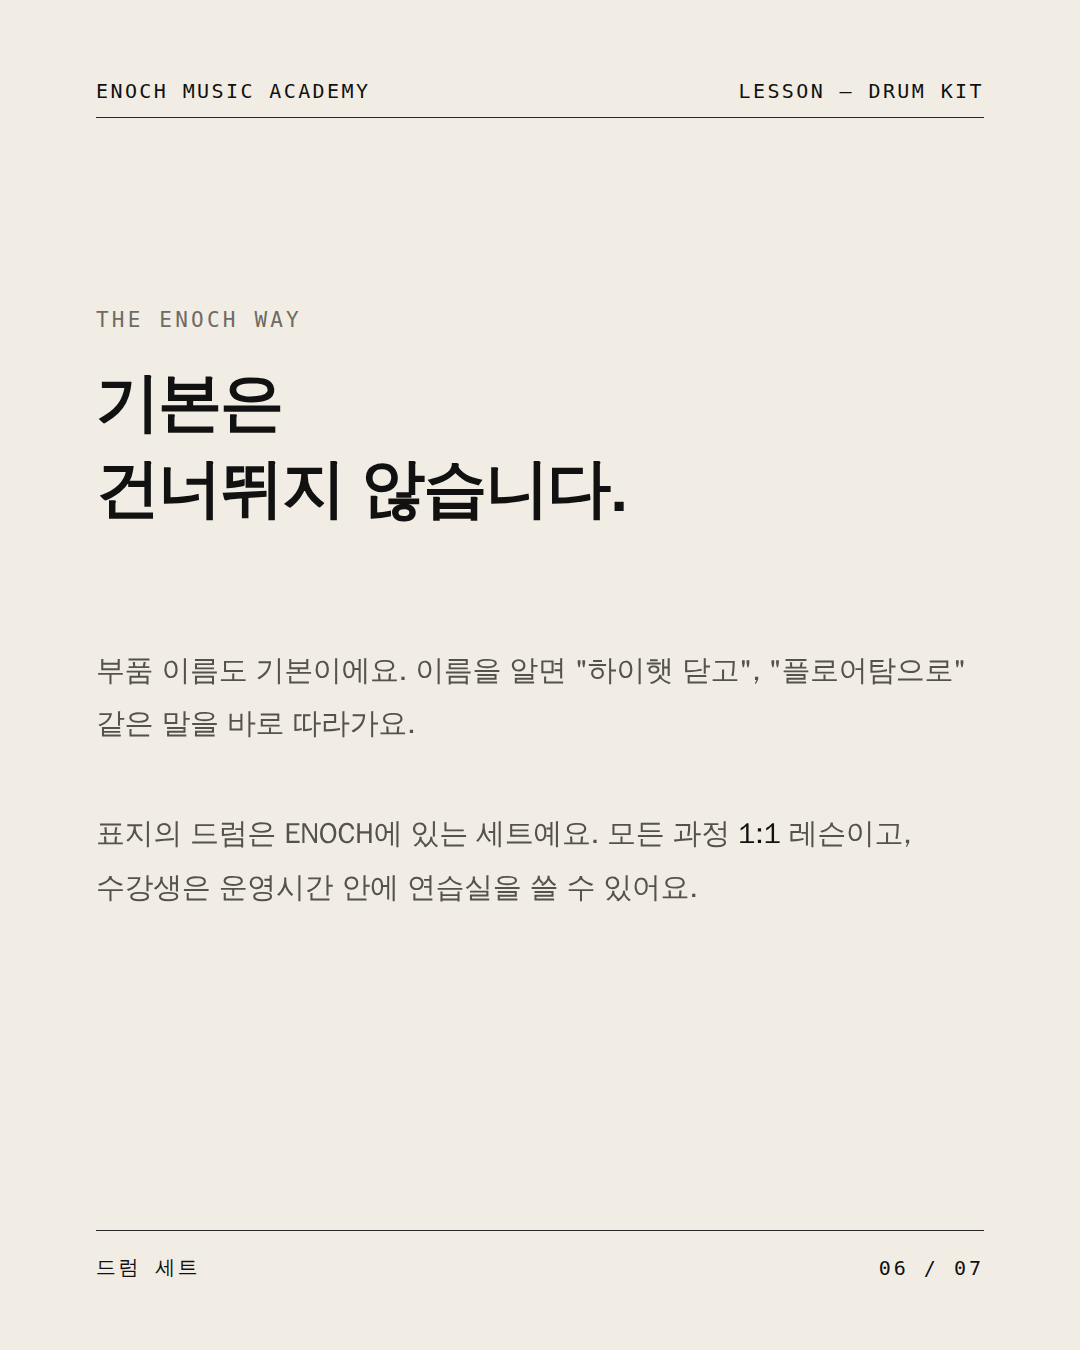
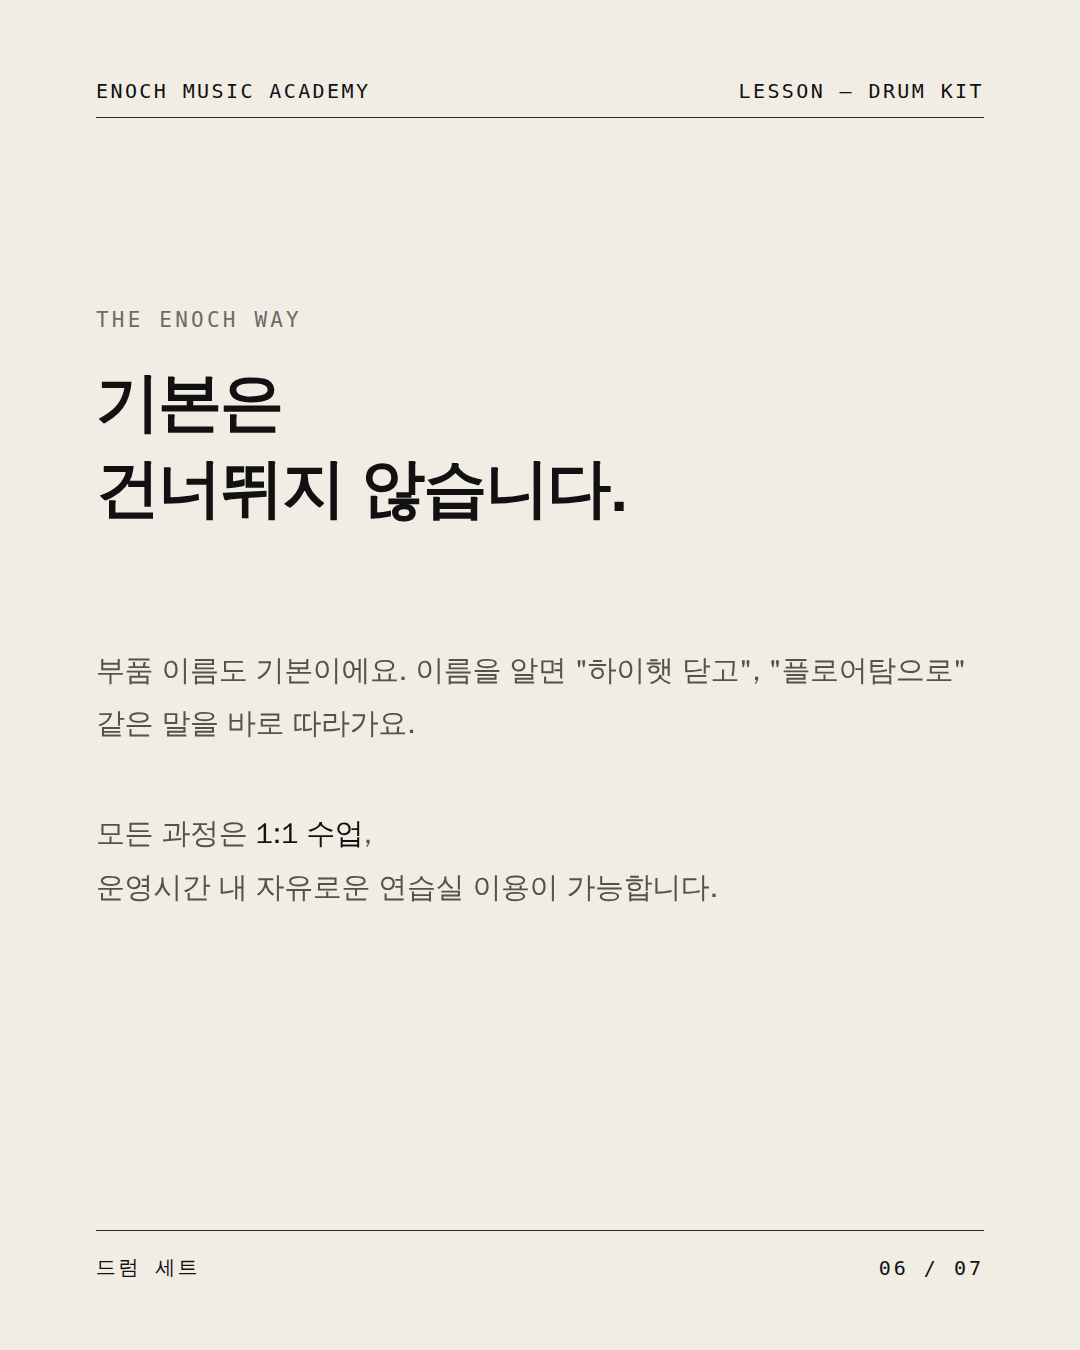
Drum kit post: card 6 wording from the director; record free practice-room use
Claude-Session: https://claude.ai/code/session_01HGbZvgMeYrbU7mY8bwfjyb

Changed region(s): [[0.0917, 0.5911, 0.6417, 0.6844], [0.7333, 0.5911, 0.825, 0.6222], [0.6417, 0.5911, 0.6722, 0.6222]]

diff --git a/output/취미드럼_세트이름/preview.html b/output/취미드럼_세트이름/preview.html
@@ -396,7 +396,8 @@ body { font-family: var(--ko); word-break: keep-all; -webkit-font-smoothing: ant
 <section class="card layout-point theme-ivory" id="card-6">
     <div class="masthead"><span>ENOCH MUSIC ACADEMY</span><span>LESSON — DRUM KIT</span></div>
     <div class="kicker">The ENOCH Way</div><h2 class="title">기본은
-건너뛰지 않습니다.</h2><div style="margin-top:56px"><p class="body">부품 이름도 기본이에요. 이름을 알면 &quot;하이햇 닫고&quot;, &quot;플로어탐으로&quot; 같은 말을 바로 따라가요.</p><p class="body">표지의 드럼은 ENOCH에 있는 세트예요. 모든 과정 <span class="em">1:1</span> 레슨이고, 수강생은 운영시간 안에 연습실을 쓸 수 있어요.</p></div>
+건너뛰지 않습니다.</h2><div style="margin-top:56px"><p class="body">부품 이름도 기본이에요. 이름을 알면 &quot;하이햇 닫고&quot;, &quot;플로어탐으로&quot; 같은 말을 바로 따라가요.</p><p class="body">모든 과정은 <span class="em">1:1 수업</span>,
+운영시간 내 자유로운 연습실 이용이 가능합니다.</p></div>
     
     
     <div class="colophon"><span>드럼 세트</span><span class="page">06 / 07</span></div>

diff --git a/CLAUDE.md b/CLAUDE.md
@@ -18,7 +18,7 @@
 - 과정: 입시 · 취미 · 성인 · 전문 (모든 과정 1:1 레슨)
 - 규모: 100평 이상, 강사 20명 이상, 취미/입시 캠퍼스 분리 예정
   - 평수와 레슨실·연습실 개수는 콘텐츠·캡션에 쓰지 않는다 (공개하지 않음, 2026-10-01 원장님 결정).
-- 연습실: 수강생은 운영시간 안에 연습실을 쓸 수 있다.
+- 연습실: 수강생은 운영시간 안에 연습실을 자유롭게 쓸 수 있다 (2026-10-04 원장님 문구: "운영시간 내 자유로운 연습실 이용이 가능합니다").
 - 공간을 꾸릴 때 가장 신경 쓴 것: 분위기
 
 ## 2. ENOCH의 원칙 (콘텐츠의 뿌리)
